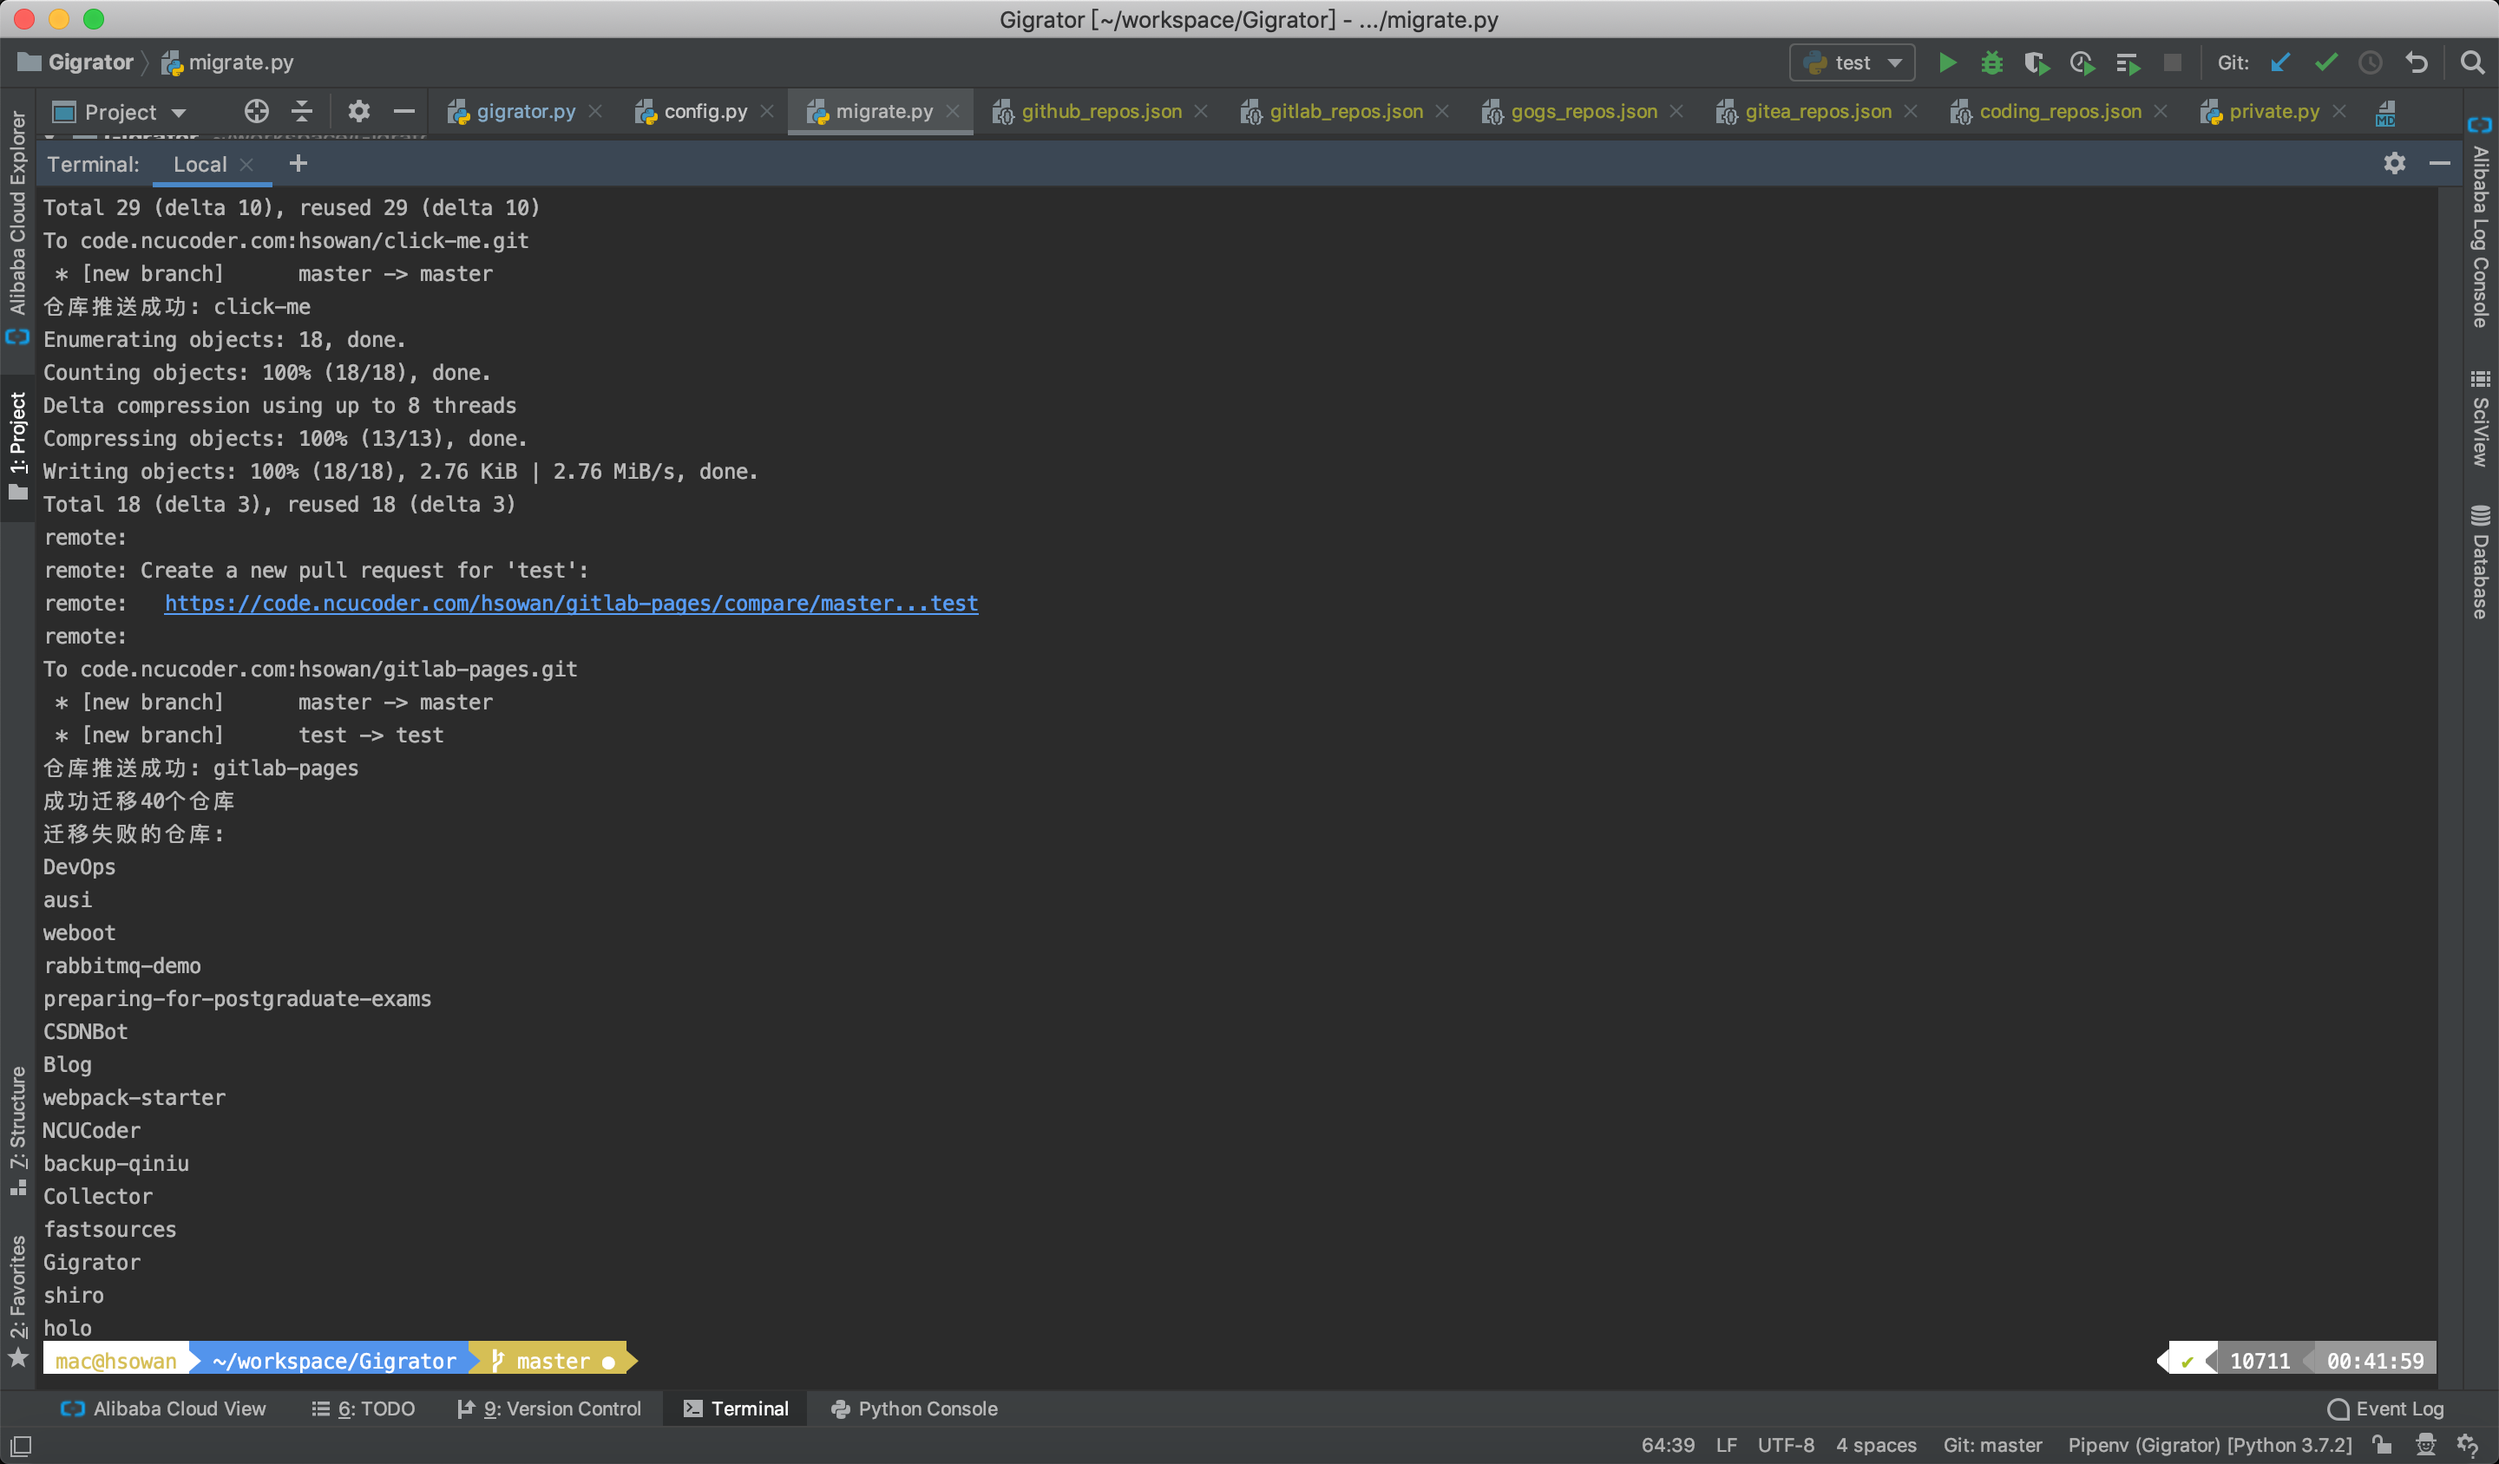
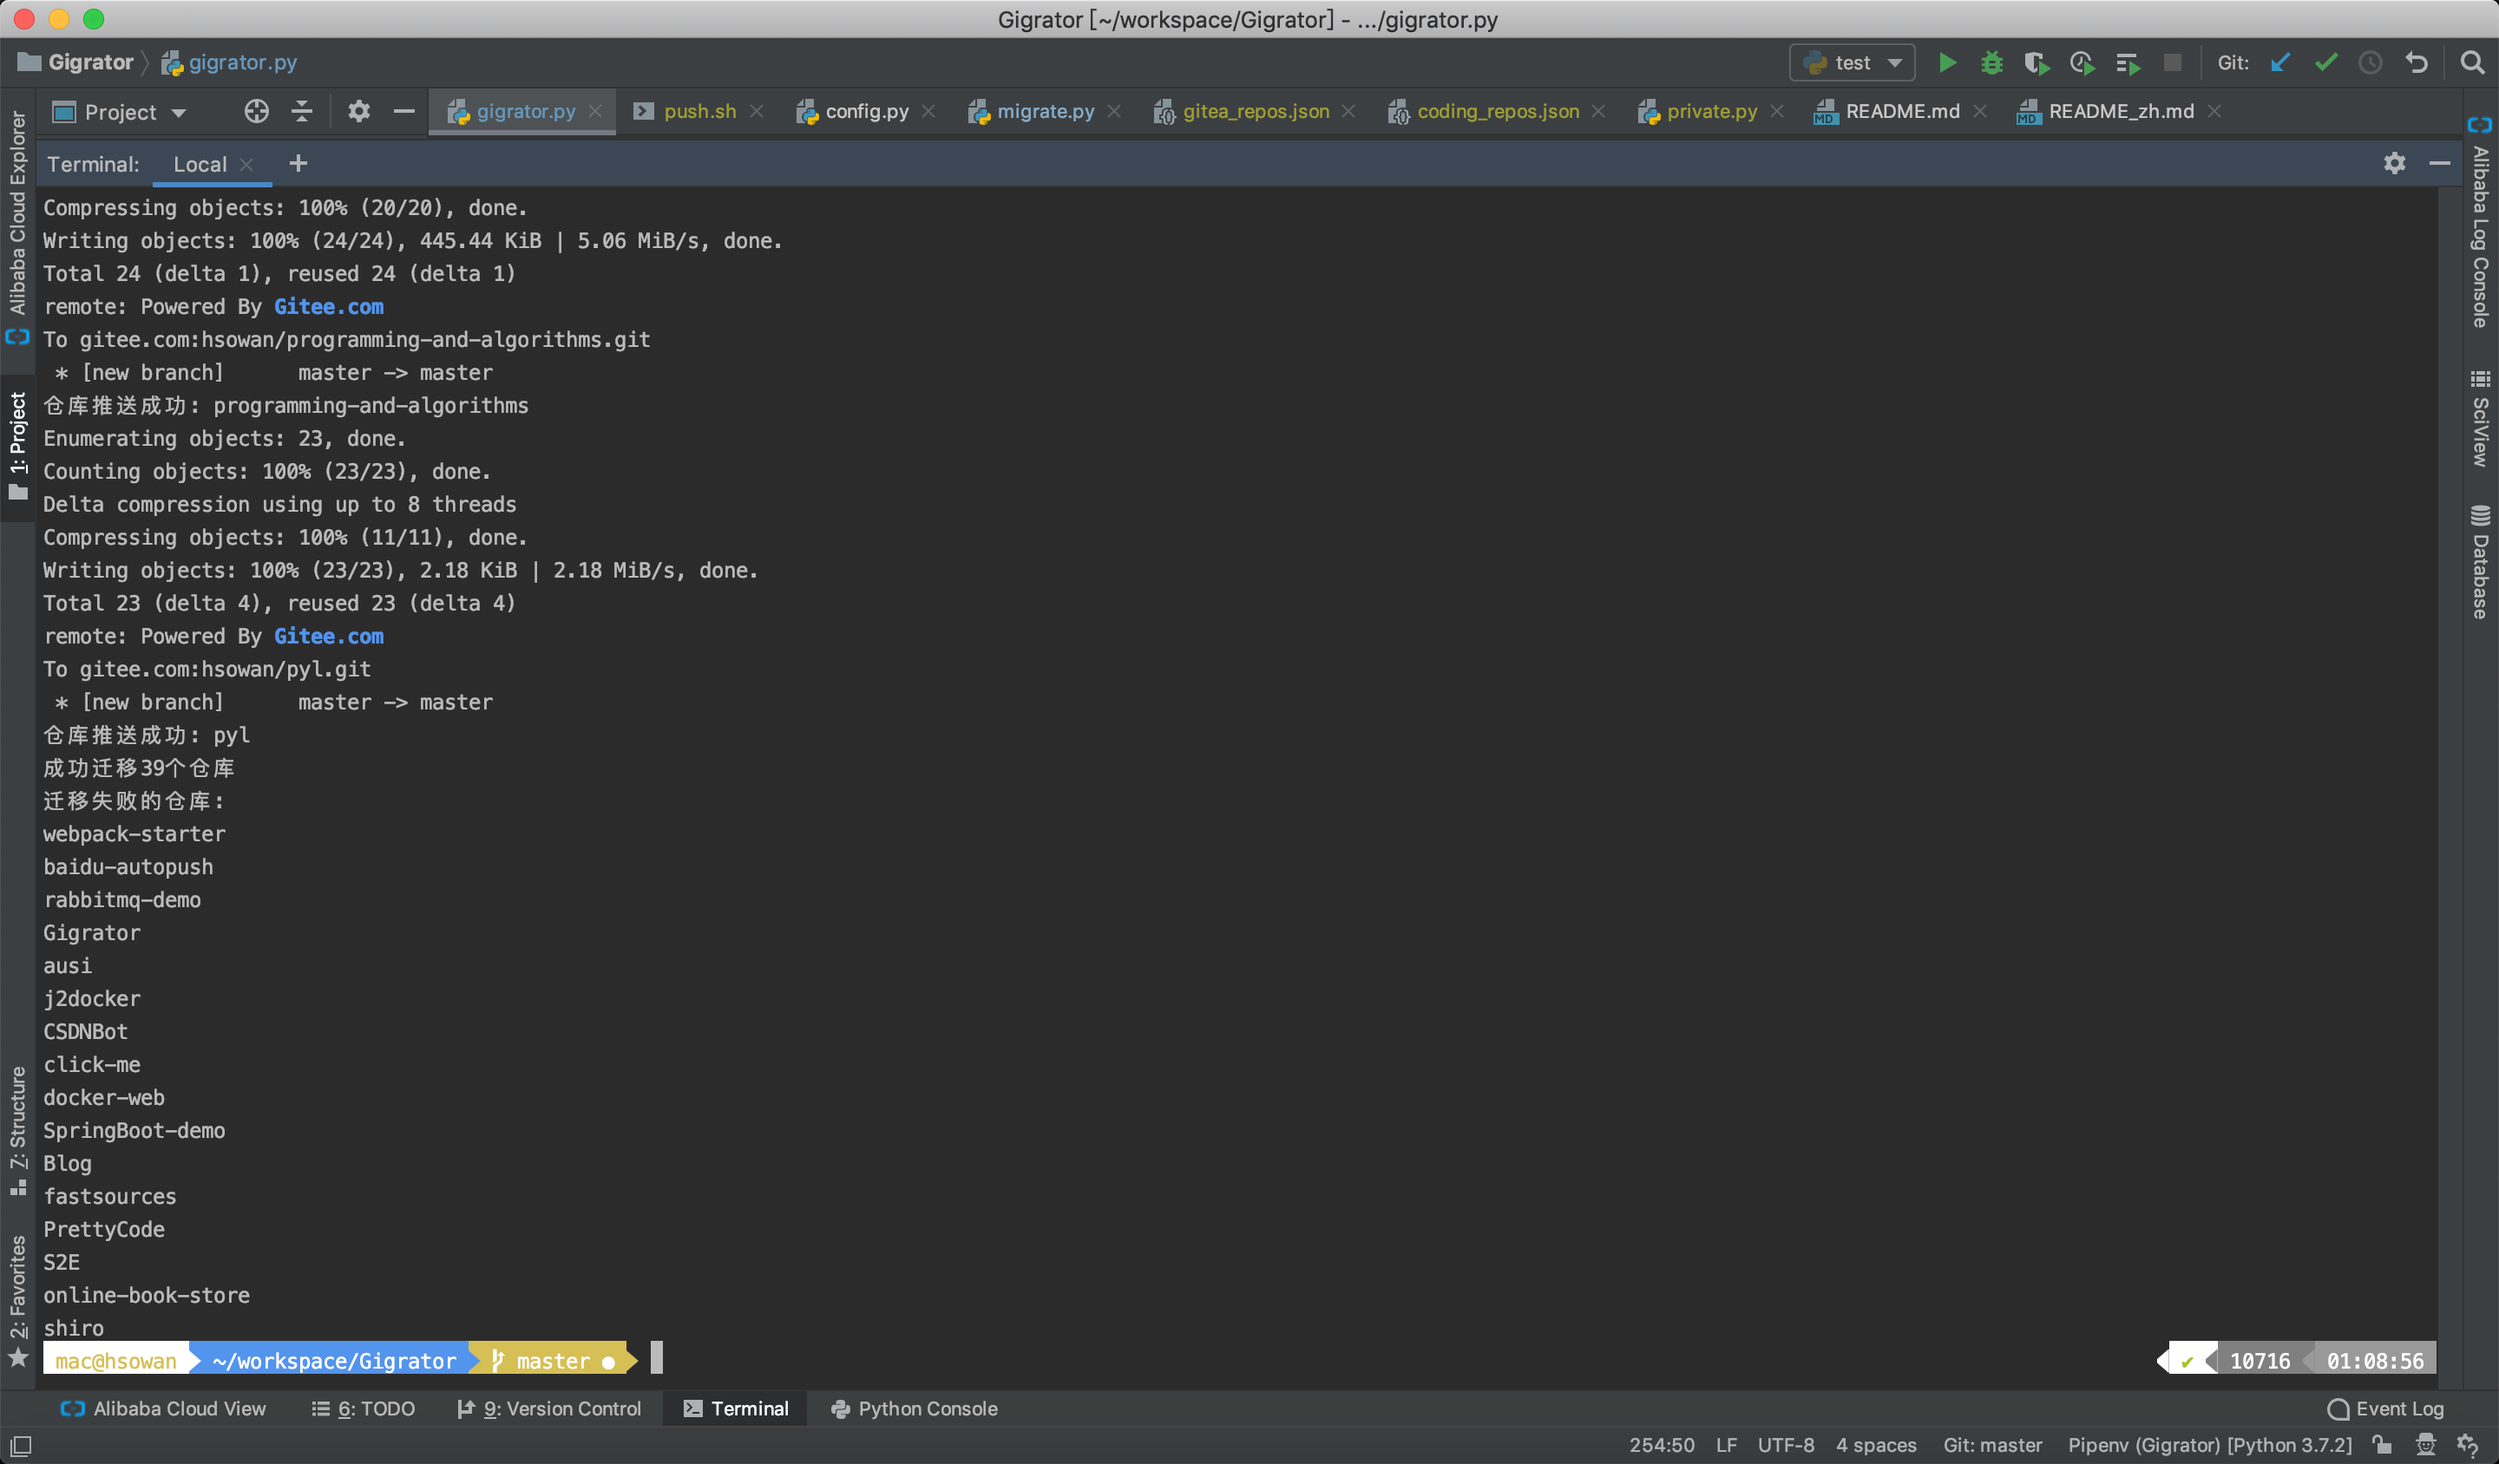
Fix: inspect empty repo

diff --git a/gigrator.py b/gigrator.py
@@ -183,42 +183,6 @@ def autoconfig(config):
     return config
 
 
-def is_empty(server_type, repo):
-    """
-    检查是否为空仓库
-
-    :param server_type: Git服务器配置
-    :param repo: 完整的仓库信息
-    :return: bool
-    """
-    if server_type == 'gitlab':
-        return repo['empty_repo']
-
-    if server_type == 'github':
-        return repo['size'] == 0
-
-    # Gitee 暂无法判断是否为空仓库
-    if server_type == 'gitee':
-        return False
-
-    if server_type == 'gitea' or server_type == 'gogs':
-        return repo['empty']
-
-    # Coding 暂无法判断是否为空仓库
-    if server_type == 'coding':
-        return False
-
-
-def precheck(server):
-    """
-    检查sshkey和token是否配置无误
-
-    :param server: Git服务器配置
-    :return: bool
-    """
-    pass
-
-
 if __name__ == "__main__":
 
     print('检查目的Git服务器配置...')
@@ -238,6 +202,10 @@ if __name__ == "__main__":
     if not os.path.isdir(repos_dir):
         os.mkdir(repos_dir)
 
+    # 每次迁移前删除repos临时目录中所有的文件
+    cmd = 'rm -rf ' + repos_dir + '*'
+    os.system(cmd)
+
     # 列出在源Git服务器上所有的仓库
     repos = list_repos(source)
     # 没有仓库的话直接退出
@@ -246,11 +214,7 @@ if __name__ == "__main__":
 
     # 打印仓库名
     for repo in repos:
-        # 排除空仓库
-        if is_empty(source['type'], repo):
-            repos.remove(repo)
-        else:
-            print(repo['name'])
+        print(repo['name'])
     print('总共' + str(len(repos)) + '个仓库')
 
     # 输入需要迁移的仓库
@@ -284,3 +248,5 @@ if __name__ == "__main__":
         print('迁移失败的仓库:')
         for failed_repo in failed_repos:
             print(failed_repo)
+
+        print('请检查目的Git服务器是否存在同名仓库或者仓库是否为空仓库')

diff --git a/migrate.py b/migrate.py
@@ -62,12 +62,6 @@ def clone_repo(server, repo_name):
 
     # 检查本地是否存在repo, 存在则删除
     repo_dir = clone_space + repo_name + '.git'
-    if os.path.isdir(repo_dir):
-        cmd = 'rm -rf ' + repo_dir
-        if os.system(cmd) != 0:
-            print('删除已有仓库失败')
-            return None
-
     clone_cmd = 'cd ' + clone_space + ' && git clone --bare ' + server['ssh_prefix'] \
                 + server['username'] + '/' + repo_name + '.git'
 
@@ -172,6 +166,32 @@ def push_repo(server, repo_name, repo_dir):
     return os.system(push_cmd) == 0
 
 
+def is_empty(server_type, repo):
+    """
+    检查是否为空仓库
+
+    :param server_type: Git服务器配置
+    :param repo: 完整的仓库信息
+    :return: bool
+    """
+    if server_type == 'gitlab':
+        return repo['empty_repo']
+
+    if server_type == 'github':
+        return repo['size'] == 0
+
+    # Gitee 暂无法判断是否为空仓库
+    if server_type == 'gitee':
+        return False
+
+    if server_type == 'gitea' or server_type == 'gogs':
+        return repo['empty']
+
+    # Coding 暂无法判断是否为空仓库
+    if server_type == 'coding':
+        return False
+
+
 def migrate(repo, source, dest):
     """
     迁移单个仓库
@@ -185,6 +205,10 @@ def migrate(repo, source, dest):
 
     if is_existed(dest, repo_name):
         print('您所在目的Git服务已存在' + repo_name + '仓库! 故此仓库无法迁移')
+        return False
+
+    if is_empty(source['type'], repo):
+        print('空仓库不做迁移')
         return False
 
     repo_dir = clone_repo(source, repo_name)
